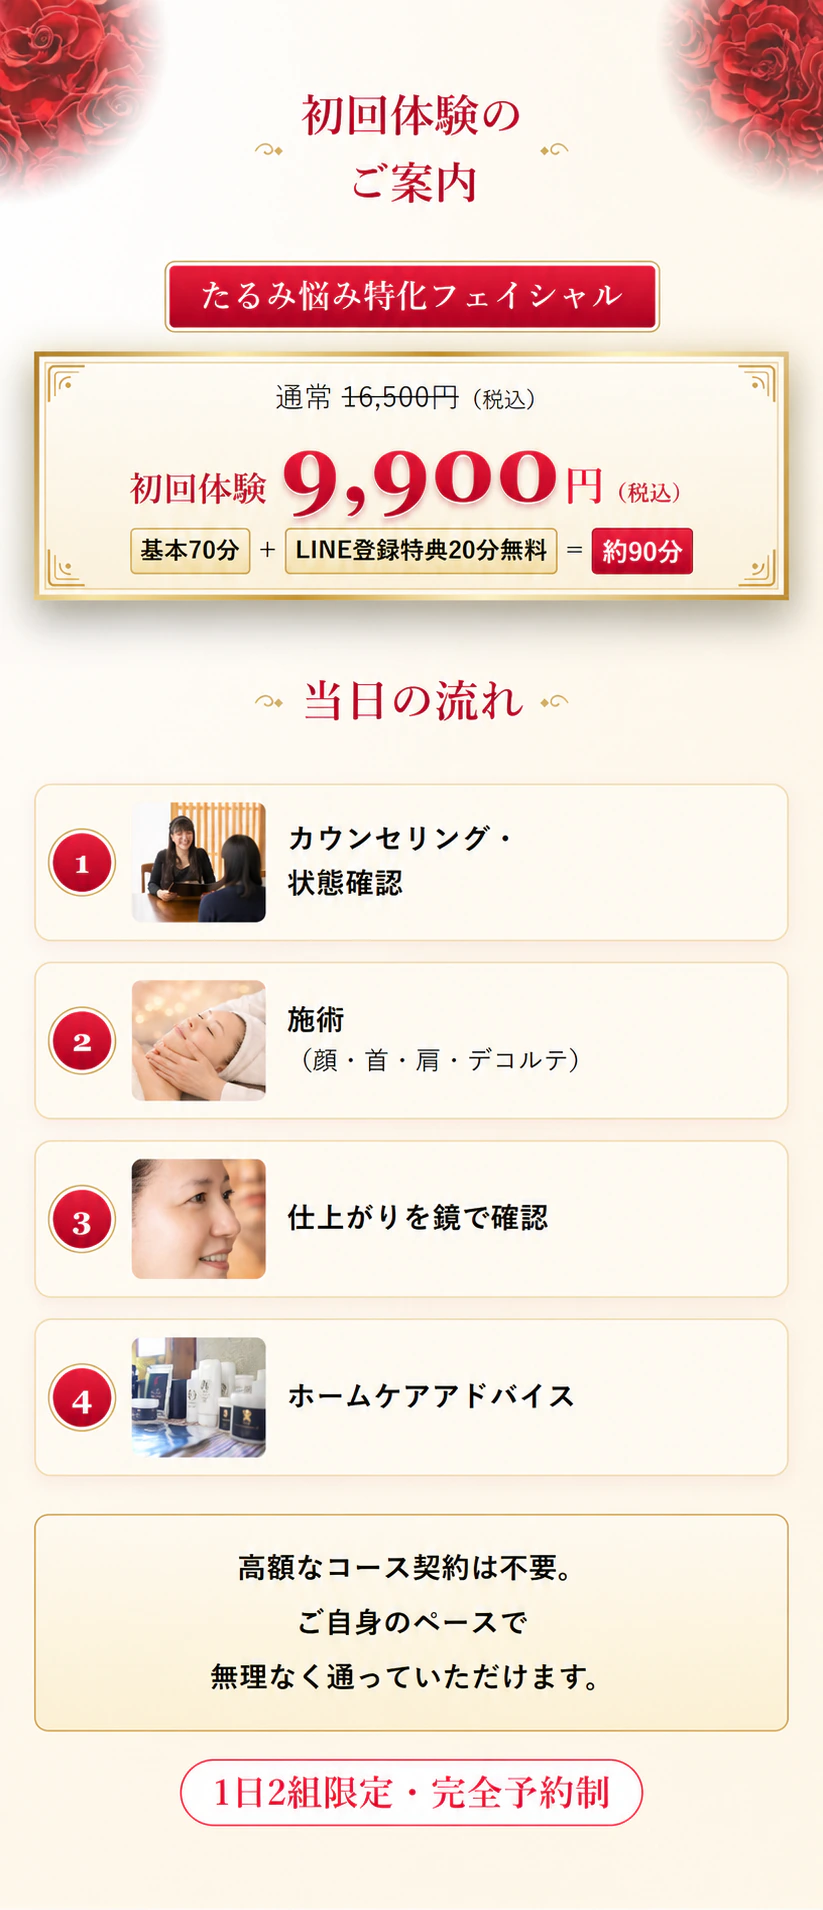
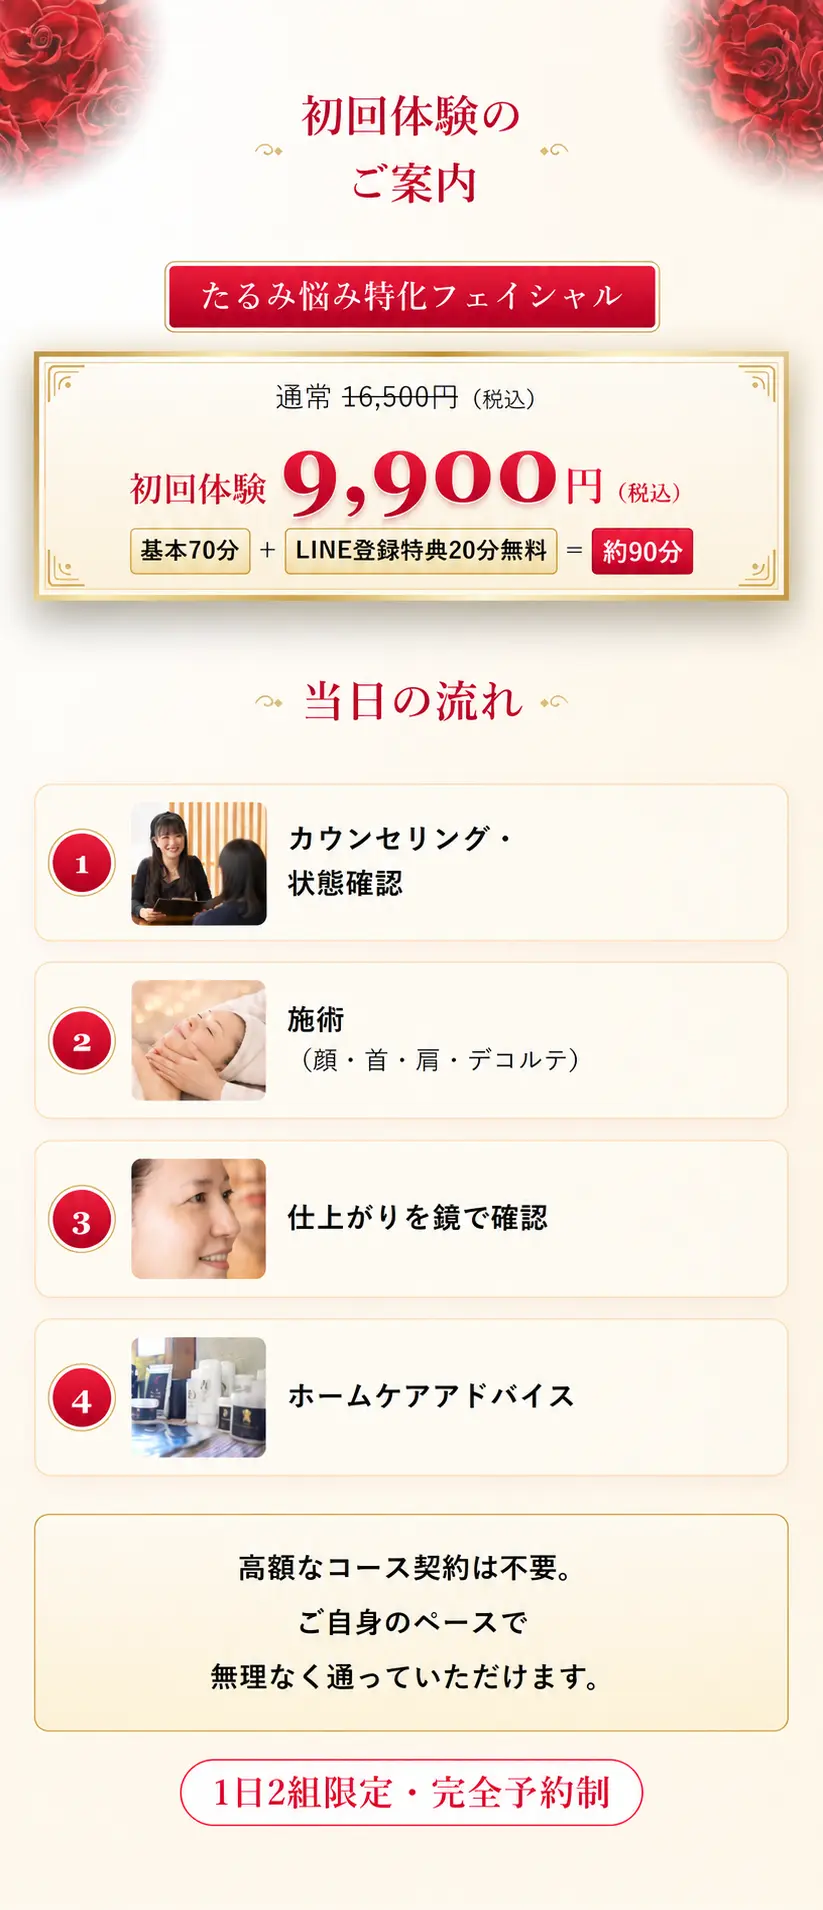
Replace counseling photo with client corrected WebP

diff --git a/rebirth/c3/index.html b/rebirth/c3/index.html
@@ -308,7 +308,7 @@ font-family:'Yu Gothic','Hiragino Kaku Gothic ProN','Noto Sans JP',sans-serif;co
 <section class="image-section" aria-label="セクション6"><img class="section-image" src="images/紅薔薇と金彩のお客様の声-optimized.webp" width="724" height="2172" alt="" loading="lazy"><div class="sr-only">お客様の声<br>痛くないのに、<br>フェイスラインがぐっと<br>引き上がるような感覚！<br><br>櫻井さんのハンドマッサージは、痛くないのにフェイスラインがぐっと引き上がるような感覚！<br><br>顔だけでなく首や肩までしっかりほぐしてくれるので、施術後は顔まわりがすっきりして、とても気持ちよかったです。<br><br>お悩み：たるみ・年齢肌／50代前半<br>マーメイド体験後、<br>お肌がツヤツヤに！<br><br>マーメイド体験後は、お肌がツヤツヤになり、帰ってから自分の顔を何度も見てしまう程です。<br><br>肌悩みを親身に聞いてくださり、オーダーメイドで施術をして下さるのでいつも大満足で帰宅します♬<br><br>お悩み：たるみ・乾燥／40代後半<br>今では櫻井さんの<br>マッサージが楽しみに！<br><br>施術の結果は大満足で、今ではフェイシャルとかリアボーテというよりも、櫻井さんのマッサージやお話をする事が楽しみで通ってます。<br><br>無理な勧誘もなく、安心して通えるプライベートサロンなのでおすすめです！<br><br>お悩み：たるみ・くすみ／50代後半<br><br>※個人の感想です。感じ方には個人差があります。</div></section><div class="html-cta red"><a class="cta" href="https://page.line.me/954miweg" target="_blank" rel="noopener">空き状況を見て予約する <span>›</span></a><small class="cta-note">公式LINEへ進みます</small></div>
 <section class="image-section" aria-label="セクション7"><img class="section-image" src="images/section-07-optimized.webp" width="1080" height="1755" alt="" loading="lazy"><div class="sr-only">サロン業界をけん引する<br>ヒト幹細胞培養液配合<br>化粧品ブランド<br>『リアボーテ』</div></section>
 <section class="image-section" aria-label="セクション8"><img class="section-image" src="images/section-08-readable-optimized.webp" width="1080" height="2696" alt="" loading="lazy"><div class="sr-only">オーナー紹介<br>美容歴<br>25年以上<br>施術経験<br>15,000人以上<br><br>私が一番したいことは、<br><br>目の前のお客様の<br>お悩みを解決すること！<br><br>たるみ、不調、肌トラブル…。<br><br>経験も技術も、そのためにあります。<br><br>だからこそ、今も学び続けています。<br><br>RE:BIRTHオーナー櫻井 朋子</div></section>
-<section class="image-section" id="offer" aria-label="セクション9"><img class="section-image" src="images/温かなフェイシャル施術の4ステップ-optimized.webp" width="823" height="1910" alt="" loading="lazy"><div class="sr-only">初回体験の<br>ご案内<br><br>たるみ悩み特化フェイシャル<br><br>通常 16,500円（税込）<br><br>初回体験<br>9,900<br>円<br>（税込）<br><br>基本70分<br>＋<br>LINE登録特典20分無料<br>＝<br>約90分<br><br>当日の流れ<br>カウンセリング・<br>状態確認<br>施術<br>（顔・首・肩・デコルテ）<br>仕上がりを鏡で確認<br>ホームケアアドバイス<br><br>高額なコース契約は不要。<br>ご自身のペースで<br>無理なく通っていただけます。<br><br>1日2組限定・完全予約制</div></section><div class="html-cta light"><a class="cta" href="https://page.line.me/954miweg" target="_blank" rel="noopener">空き状況を見て予約する <span>›</span></a><small class="cta-note">公式LINEへ進みます</small></div>
+<section class="image-section" id="offer" aria-label="セクション9"><img class="section-image" src="images/温かなフェイシャル施術の4ステップ-optimized.webp?v=counseling-corrected" width="823" height="1910" alt="" loading="lazy"><div class="sr-only">初回体験の<br>ご案内<br><br>たるみ悩み特化フェイシャル<br><br>通常 16,500円（税込）<br><br>初回体験<br>9,900<br>円<br>（税込）<br><br>基本70分<br>＋<br>LINE登録特典20分無料<br>＝<br>約90分<br><br>当日の流れ<br>カウンセリング・<br>状態確認<br>施術<br>（顔・首・肩・デコルテ）<br>仕上がりを鏡で確認<br>ホームケアアドバイス<br><br>高額なコース契約は不要。<br>ご自身のペースで<br>無理なく通っていただけます。<br><br>1日2組限定・完全予約制</div></section><div class="html-cta light"><a class="cta" href="https://page.line.me/954miweg" target="_blank" rel="noopener">空き状況を見て予約する <span>›</span></a><small class="cta-note">公式LINEへ進みます</small></div>
 <section class="light faq" data-section="10">
 <h2>よくある質問</h2>
 <dl>
